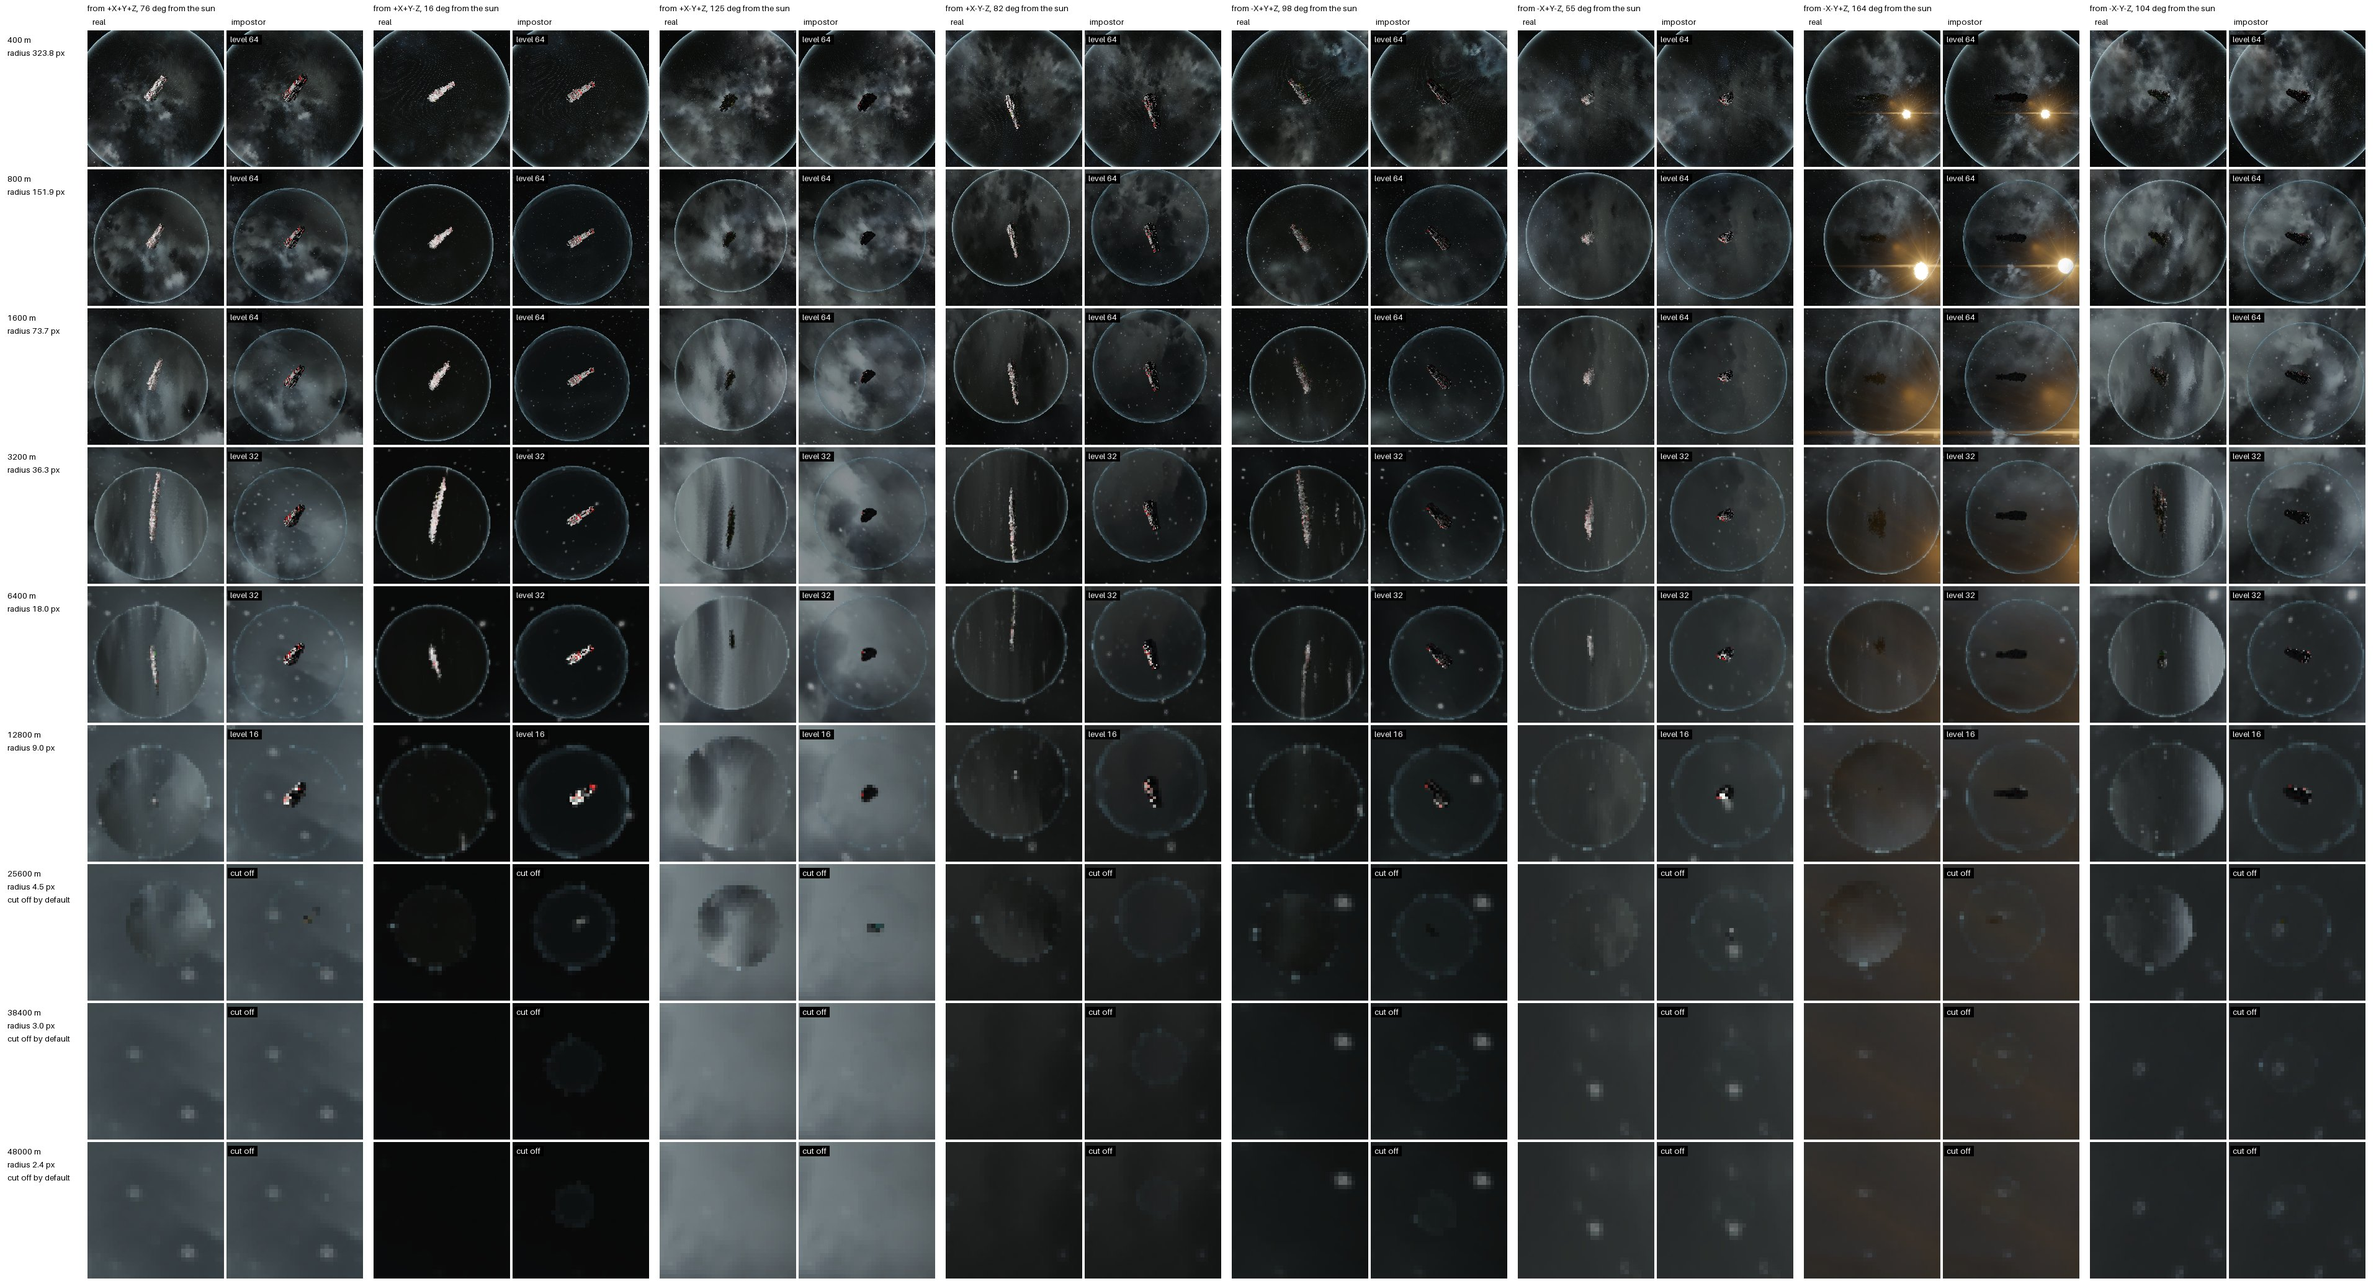
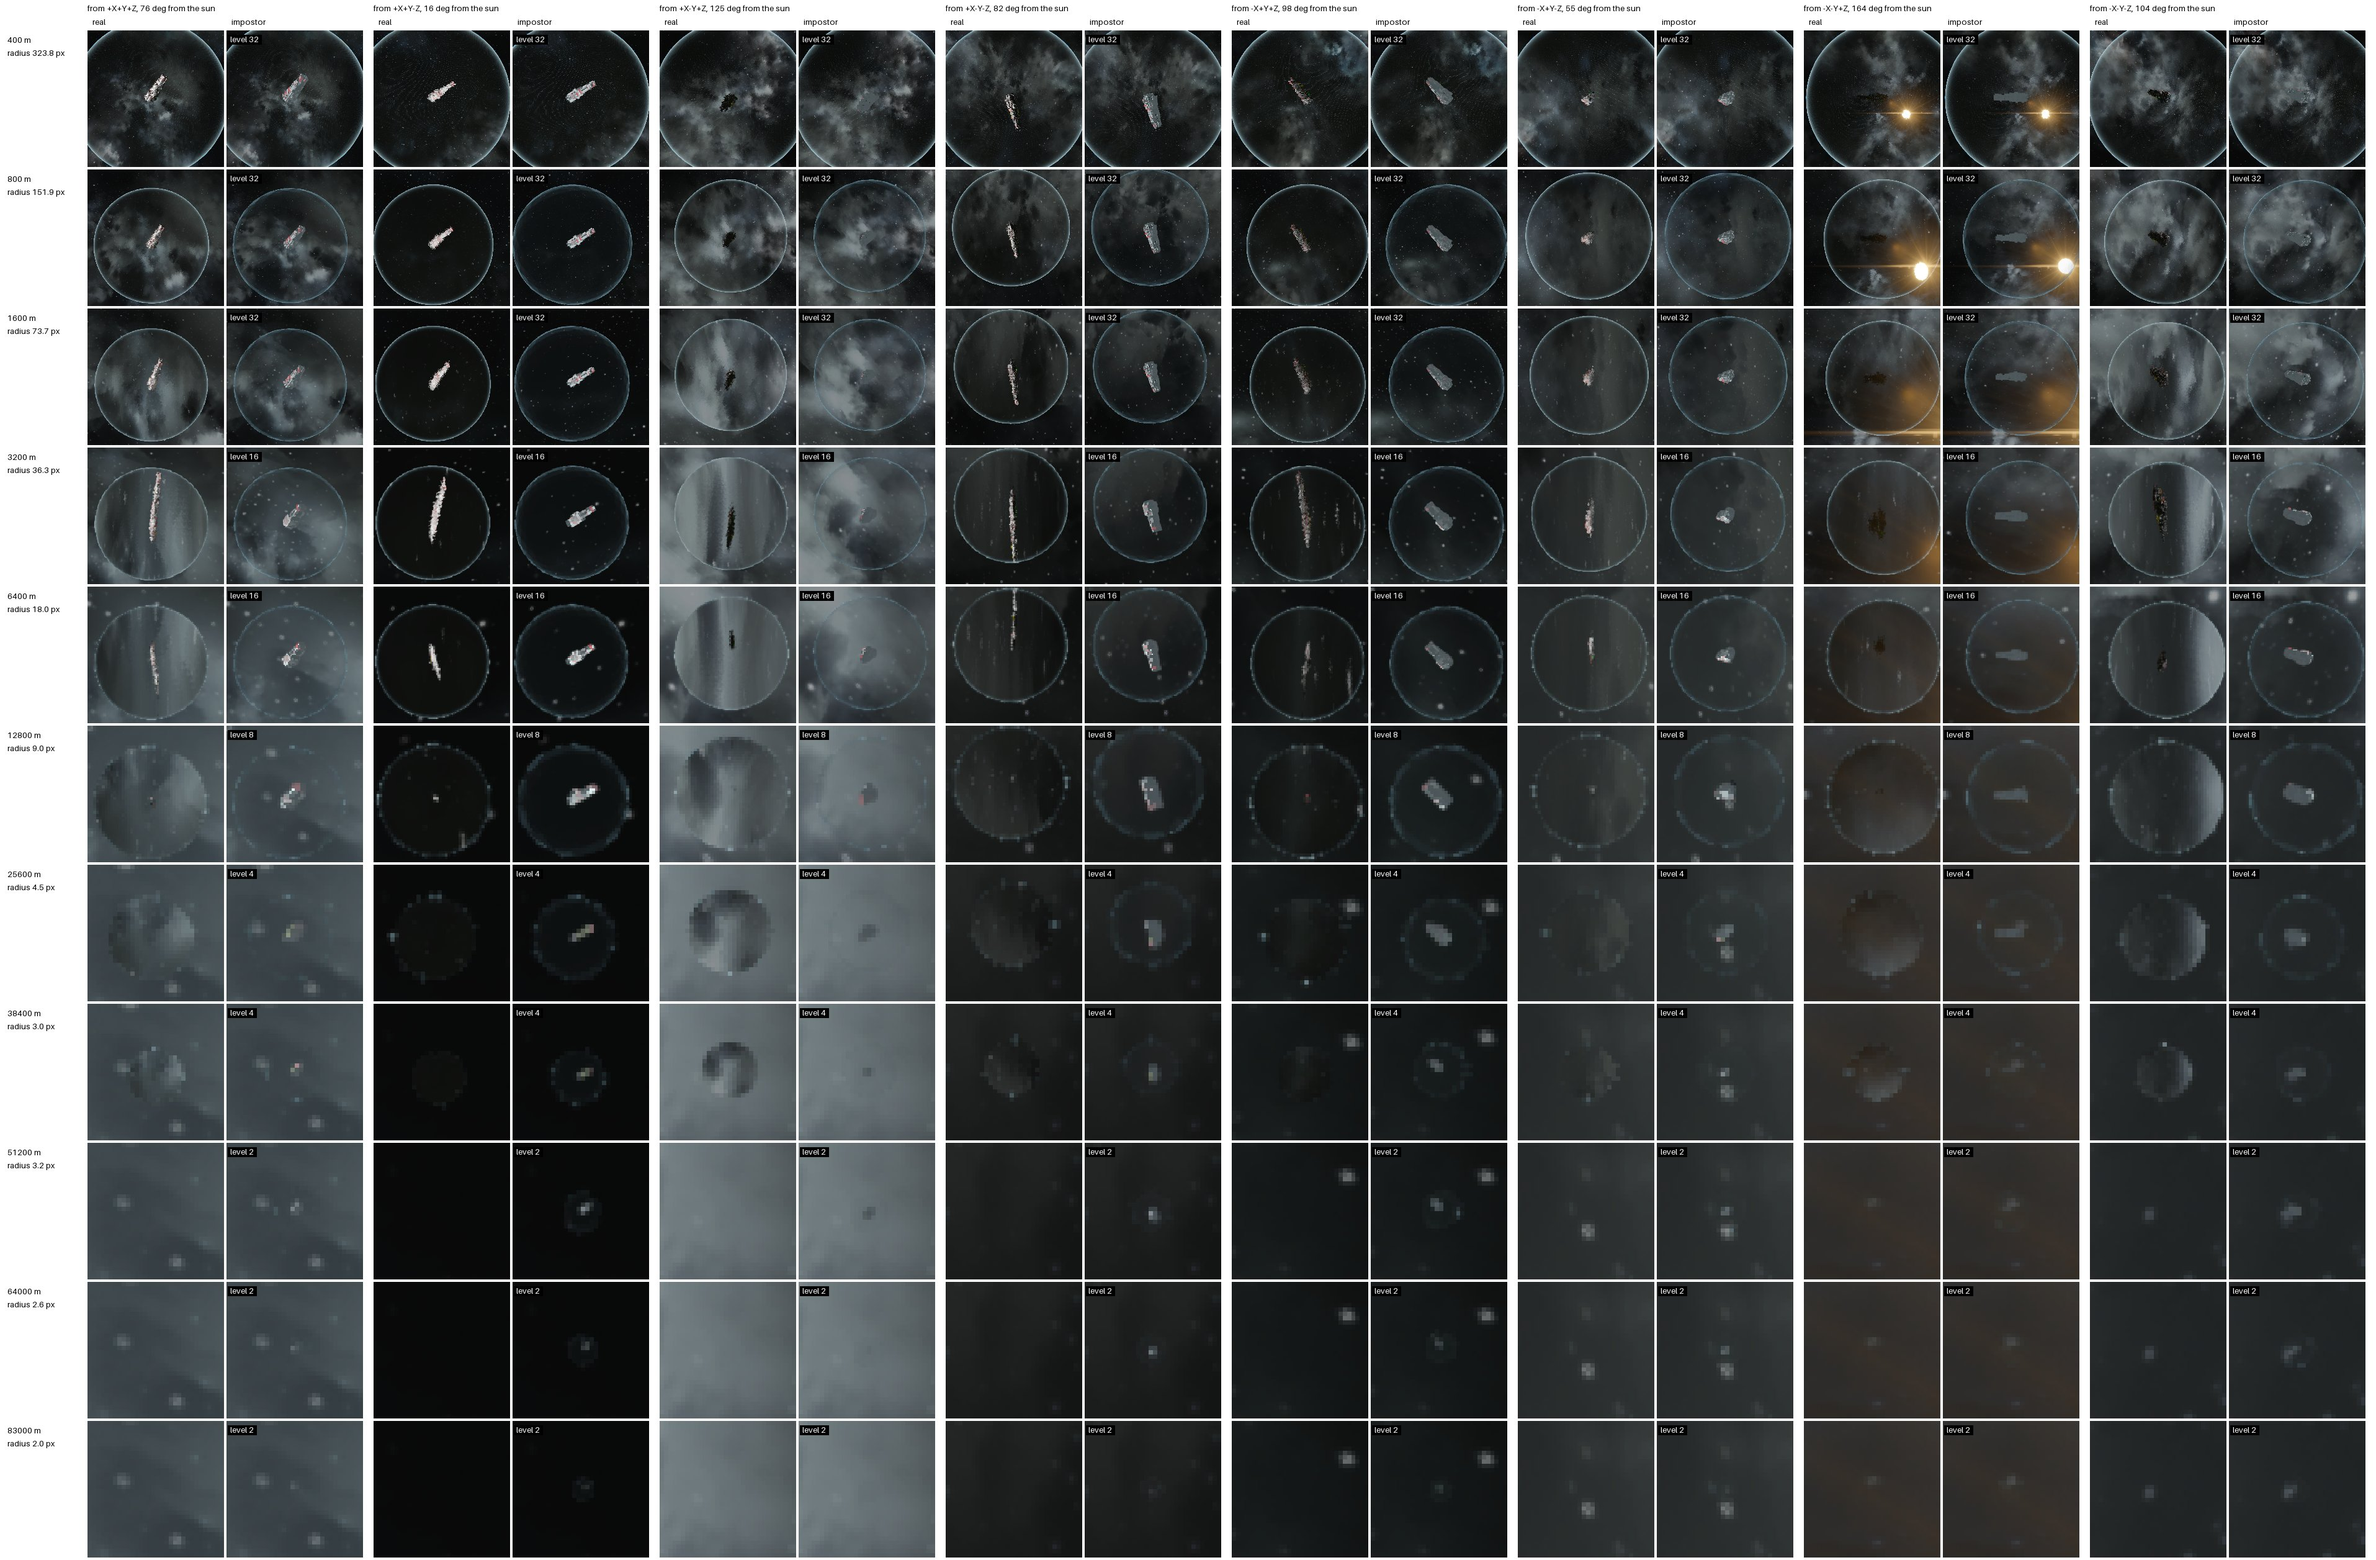
Safe zones page: Rhea in a zone with the lower level and the tint

diff --git a/Docs/Design.md b/Docs/Design.md
@@ -274,8 +274,9 @@ The game draws a zone's surface with a distorting shield effect, which blurs and
 is inside. Impostors are billboards drawn after tone mapping, so they show undistorted on top
 of it. A grid or asteroid impostor whose AABB center is inside an enabled zone therefore gets
 one level of detail lower than it would outside, and its state carries the zone's color
-(`Tint`, 4 bytes, alpha 0 outside of zones). The mod blends its quad colors that much towards
-the zone's color (`ZoneTint` in the renderer), fitted to comparison sheets. The level picked
+(`Tint`, 4 bytes, alpha 0 outside of zones). The mod blends its quad colors 35% towards the
+zone's surface color, the zone's color 60% of the way to white (`ZoneTint`, `ZoneTintPale` in
+the renderer), fitted to comparison sheets. The level picked
 before the drop is kept for the hysteresis, so the drop doesn't repeat every second.
 
 On a cluster, admin zones are on every node (the cluster plugin's `AdminSafeZones`), so each
